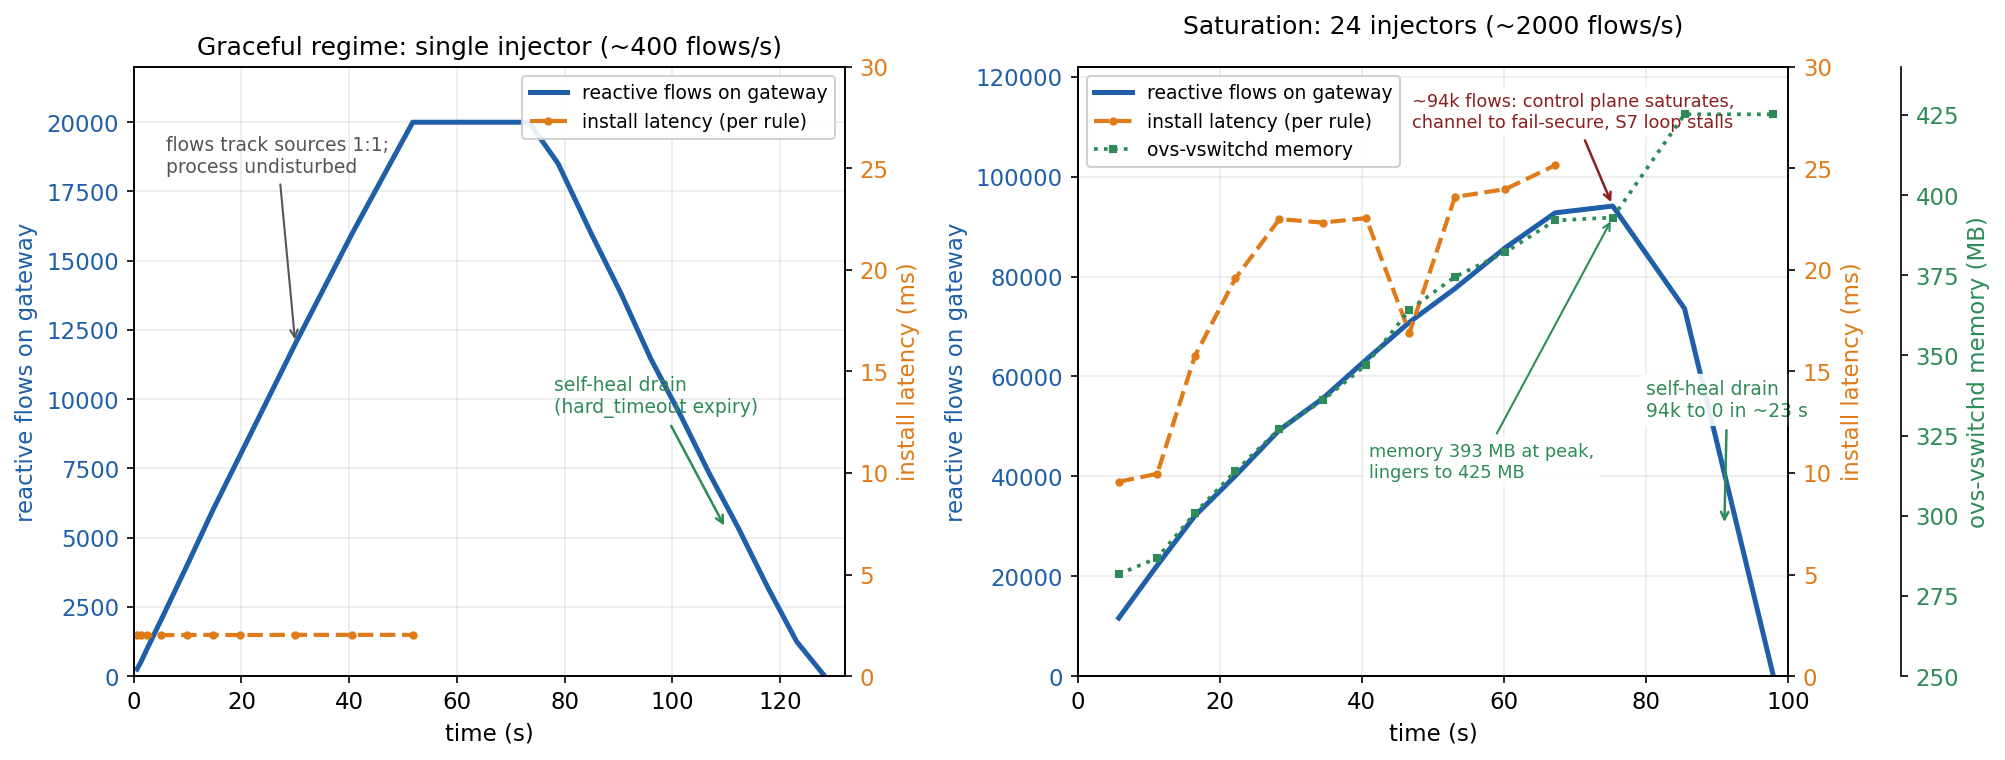
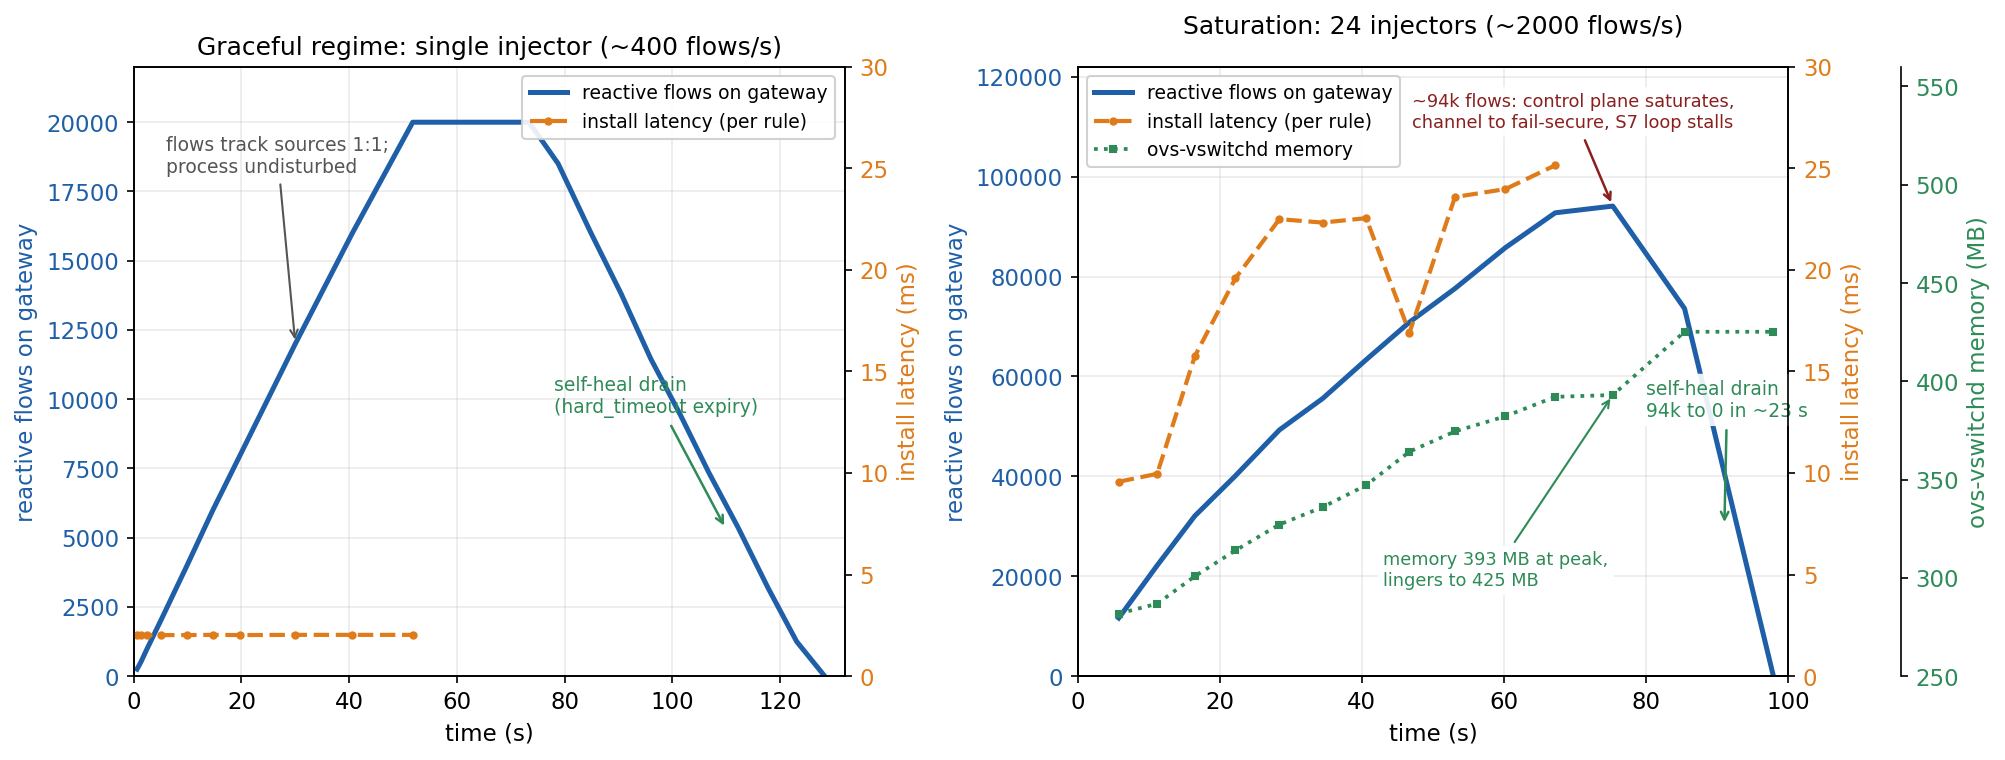
fig 4.13: separate flows and memory curves visually (widen memory axis)
Right panel: memory axis range widened 250->560 MB so the green memory curve
sits in a lower band, visually separated from the blue flows curve instead of
tracking it. Data unchanged (memory still 282->393->425); axis range and the
memory annotation position only. Repositioned the 393/425 note into the clear
band below its curve.

diff --git a/report/figures/src/fig_flowtable.py b/report/figures/src/fig_flowtable.py
@@ -90,7 +90,9 @@ r3, = axRc.plot(ceil["t_s"], ceil["vswitchd_mb"], color=GREEN, lw=1.8,
                 ls=":", marker="s", ms=3, label="ovs-vswitchd memory")
 axRc.set_ylabel("ovs-vswitchd memory (MB)", color=GREEN)
 axRc.tick_params(axis="y", labelcolor=GREEN)
-axRc.set_ylim(250, 440)
+# widen the memory axis so the green curve sits in a lower band, visually
+# separated from the blue flows curve (data unchanged; axis range only)
+axRc.set_ylim(250, 560)
 
 # mark the 94k saturation peak (t=75.3); the memory curve reads 393 MB there
 axR.set_title("Saturation: 24 injectors (~2000 flows/s)", pad=16)
@@ -107,7 +109,7 @@ axR.annotate("self-heal drain\n94k to 0 in ~23 s",
              arrowprops=dict(arrowstyle="->", color=GREEN, lw=1.2))
 # memory: 393 MB at the flow peak, lingering to 425 MB through the drain
 axRc.annotate("memory 393 MB at peak,\nlingers to 425 MB", xy=(75.3, 393.0),
-              xytext=(41, 312), color=GREEN, fontsize=8.5, ha="left", bbox=bbox,
+              xytext=(43, 296), color=GREEN, fontsize=8.5, ha="left", bbox=bbox,
               arrowprops=dict(arrowstyle="->", color=GREEN, lw=1))
 
 lines = [r1, r2, r3]
